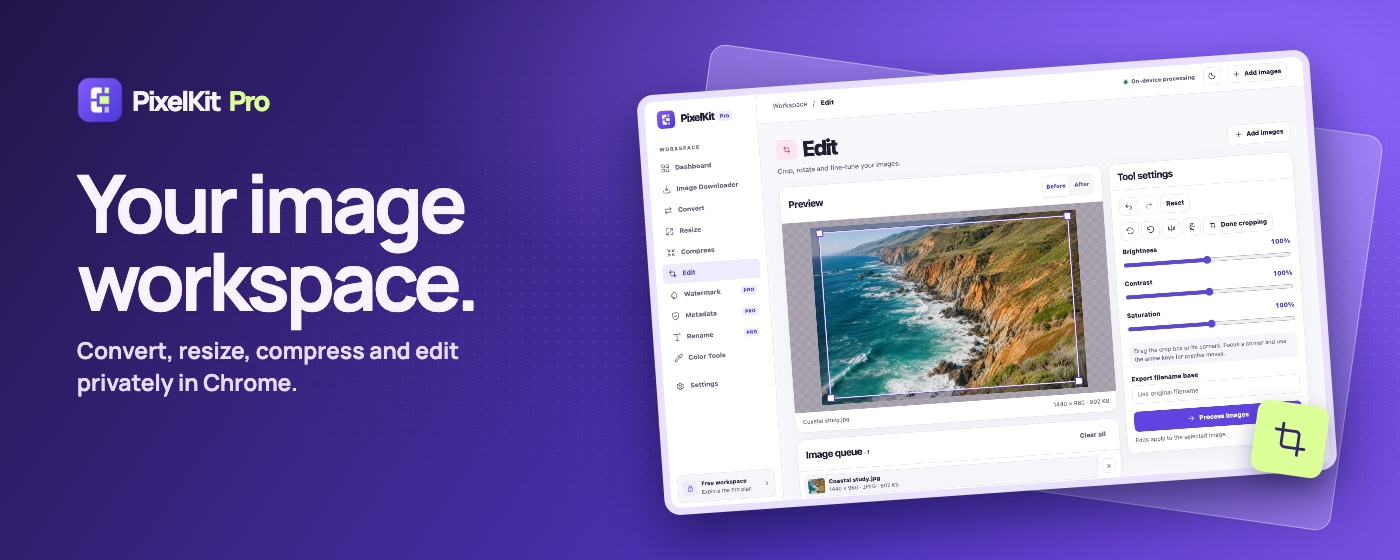
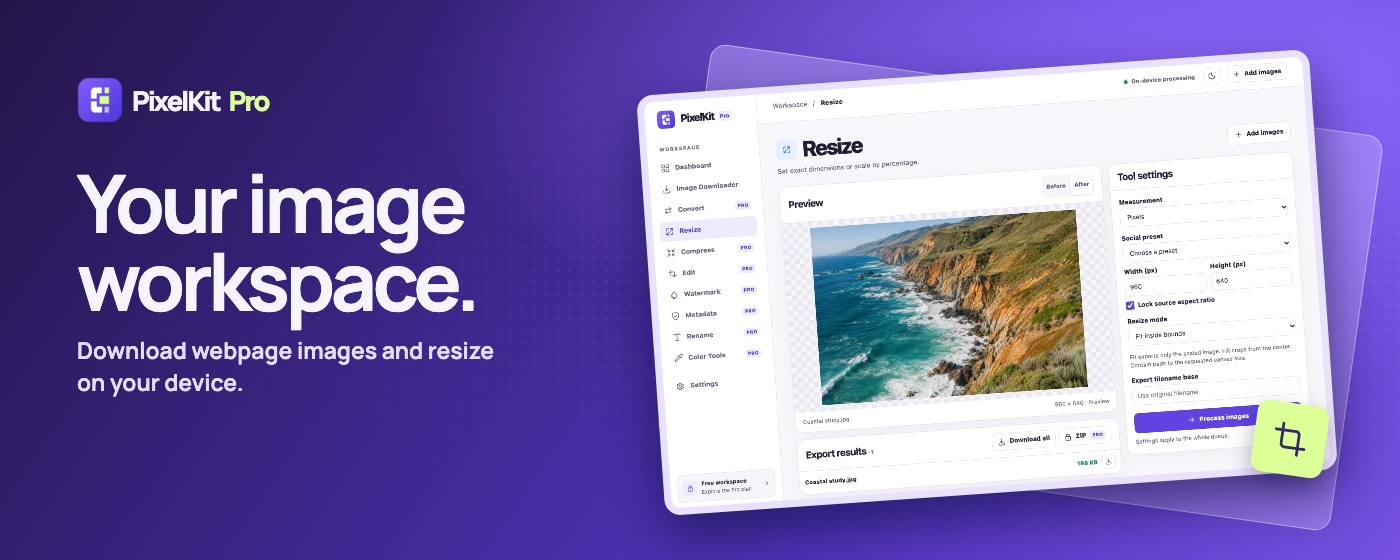
Update PixelKit Pro Free and Pro plans for 1.1.0

diff --git a/index.html b/index.html
@@ -4,7 +4,7 @@
   <meta charset="utf-8">
   <meta name="viewport" content="width=device-width,initial-scale=1">
   <title>PixelKit Pro | Private image tools for Chrome</title>
-  <meta name="description" content="Convert, resize, compress and edit images in Chrome on your device. Explore PixelKit Pro by PixelKit Labs, with Free tools and a planned $14.99 lifetime upgrade.">
+  <meta name="description" content="Download webpage images and resize on your device for free. Unlock more image tools with the planned $14.99 lifetime upgrade from PixelKit Labs.">
   <meta name="theme-color" content="#171229">
   <link rel="canonical" href="https://aavedisian00.github.io/pixelkit-website/">
   <meta property="og:type" content="website">
@@ -12,7 +12,7 @@
   <meta property="og:description" content="An image workspace for Chrome that processes your files on your device.">
   <meta property="og:url" content="https://aavedisian00.github.io/pixelkit-website/">
   <meta property="og:image" content="https://aavedisian00.github.io/pixelkit-website/assets/social-preview.jpg">
-  <meta property="og:image:alt" content="PixelKit Pro editing a coastal photograph in its Chrome workspace">
+  <meta property="og:image:alt" content="PixelKit Pro resizing a coastal photograph in its Chrome workspace">
   <meta name="twitter:card" content="summary_large_image">
   <link rel="icon" type="image/png" sizes="32x32" href="assets/icon32.png">
   <link rel="preload" href="assets/manrope.woff2" as="font" type="font/woff2" crossorigin>
@@ -33,52 +33,52 @@
         <div class="hero-copy">
           <p class="eyebrow"><span></span> A Chrome extension by PixelKit Labs</p>
           <h1 id="hero-title">Your images.<br><em>Your device.</em></h1>
-          <p>Convert, resize, compress and edit images in one Chrome workspace. Local files stay on your device, with no account or cloud processing.</p>
+          <p>Download webpage images and resize for free in Chrome. Pro adds conversion, compression, editing and more. Local files stay on your device.</p>
           <div class="actions"><a class="button primary" href="#workspace">Explore the workspace</a><a class="button dark-outline" href="#pricing">View pricing</a></div>
         </div>
         <figure class="hero-figure">
-          <div class="hero-frame"><img src="assets/compression.jpg" width="1280" height="800" alt="PixelKit Pro showing a coastal photo compressed to WebP with before and after controls, a quality slider and exported file size." fetchpriority="high"></div>
-          <figcaption>PixelKit Pro workspace · Compression</figcaption>
+          <div class="hero-frame"><img src="assets/resize.jpg" width="1280" height="800" alt="PixelKit Pro showing a coastal photo resized to 960 by 640 pixels, with preview and download controls." fetchpriority="high"></div>
+          <figcaption>PixelKit Pro workspace · Free Resize</figcaption>
         </figure>
       </div>
     </section>
     <section class="format-bar" aria-label="Supported formats">
-      <div class="wrap"><span>Input &amp; output formats</span><ul><li>JPEG</li><li>PNG</li><li>WebP</li><li>AVIF</li><li>BMP</li><li>GIF</li><li>SVG</li><li>ICO</li></ul></div>
+      <div class="wrap"><span>Supported image formats</span><ul><li>JPEG</li><li>PNG</li><li>WebP</li><li>AVIF</li><li>BMP</li><li>GIF</li><li>SVG</li><li>ICO</li></ul></div>
     </section>
     <section class="wrap section workspace" id="workspace" aria-labelledby="workspace-title">
-      <div class="section-intro"><h2 id="workspace-title">See the tools in action</h2><p>These screenshots show PixelKit Pro running in Chrome. Switch views to see how cropping, compression and color sampling work.</p></div>
+      <div class="section-intro"><h2 id="workspace-title">See the tools in action</h2><p>See Image Downloader and Resize in the Free workspace, or preview the planned Pro editor.</p></div>
       <div class="demo">
         <div class="demo-buttons" aria-label="Workspace screenshots">
-          <button type="button" id="edit-tab" data-demo="edit-demo">Crop and edit</button>
-          <button type="button" id="compress-tab" data-demo="compress-demo">Compress</button>
-          <button type="button" id="color-tab" data-demo="color-demo">Pick colors</button>
+          <button type="button" id="resize-tab" data-demo="resize-demo">Resize</button>
+          <button type="button" id="download-tab" data-demo="download-demo">Download</button>
+          <button type="button" id="edit-tab" data-demo="edit-demo">Edit (Pro)</button>
         </div>
+        <figure class="demo-panel" id="resize-demo">
+          <img src="assets/resize.jpg" width="1280" height="800" loading="lazy" decoding="async" alt="Free Resize workspace showing pixel dimensions, aspect ratio controls and the resized export.">
+          <figcaption><strong>Resize for free</strong><span>Set dimensions or scale by percentage. Choose a social preset, then resize and save your images in one batch.</span></figcaption>
+        </figure>
+        <figure class="demo-panel" id="download-demo">
+          <img src="assets/downloader.jpg" width="1280" height="800" loading="lazy" decoding="async" alt="Free Image Downloader showing a webpage gallery, image filters and multiple selected images.">
+          <figcaption><strong>Download for free</strong><span>Scan a webpage, filter the gallery and save selected images as individual files. Save one or many in the same operation.</span></figcaption>
+        </figure>
         <figure class="demo-panel" id="edit-demo">
-          <img src="assets/editor.jpg" width="1280" height="800" loading="lazy" decoding="async" alt="Editor showing four draggable crop handles over the original photo and sliders for brightness, contrast and saturation.">
-          <figcaption><strong>Crop and edit</strong><span>Drag crop handles, rotate or flip, and adjust brightness, contrast and saturation. Undo changes or compare the result against the original.</span></figcaption>
-        </figure>
-        <figure class="demo-panel" id="compress-demo">
-          <img src="assets/compression.jpg" width="1280" height="800" loading="lazy" decoding="async" alt="Compression workspace comparing source and WebP output file sizes for the coastal sample image.">
-          <figcaption><strong>Compress</strong><span>Choose JPEG, WebP or AVIF, set a quality level, and compare the actual encoded output and file size.</span></figcaption>
-        </figure>
-        <figure class="demo-panel" id="color-demo">
-          <img src="assets/color-tools.jpg" width="1280" height="800" loading="lazy" decoding="async" alt="Color Tools in dark mode showing a sampled teal swatch and copy buttons for HEX, RGB and HSL.">
-          <figcaption><strong>Pick colors</strong><span>Sample a pixel and copy its HEX, RGB or HSL value. Pro adds dominant colors and CSS palette export.</span></figcaption>
+          <img src="assets/editor.jpg" width="1280" height="800" loading="lazy" decoding="async" alt="Pro editor preview showing draggable crop handles and adjustment sliders.">
+          <figcaption><strong>Edit with Pro</strong><span>Preview the planned Pro editor. Drag crop handles, rotate or flip, and adjust brightness, contrast and saturation.</span></figcaption>
         </figure>
       </div>
     </section>
     <section class="feature-band" aria-label="Image workflow">
       <div class="wrap feature-layout">
-        <article><div class="feature-symbol" aria-hidden="true"><svg viewBox="0 0 24 24"><path d="M4 8h15m-4-4 4 4-4 4M20 16H5m4-4-4 4 4 4"/></svg></div><h3>Convert and resize</h3><p>Change formats, set exact dimensions, scale by percentage or start with a social preset. Fit, fill or pad an image to match your layout.</p></article>
+        <article><div class="feature-symbol" aria-hidden="true"><svg viewBox="0 0 24 24"><path d="M4 8h15m-4-4 4 4-4 4M20 16H5m4-4-4 4 4 4"/></svg></div><h3>Resize images</h3><p>Set exact dimensions, scale by percentage or start with a social preset. Fit, fill or pad an image to match your layout.</p></article>
         <article><div class="feature-symbol" aria-hidden="true"><svg viewBox="0 0 24 24"><path d="M12 3v12m-4-4 4 4 4-4M4 15v5h16v-5"/></svg></div><h3>Collect webpage images</h3><p>Request a scan from Chrome’s toolbar, browse a thumbnail gallery and filter by available image details. Website access restrictions apply.</p></article>
         <article><div class="feature-symbol" aria-hidden="true"><svg viewBox="0 0 24 24"><path d="M12 21s7-3 7-10V6l-7-3-7 3v5c0 7 7 10 7 10Z"/><path d="m9 12 2 2 4-4"/></svg></div><h3>Keep local files local</h3><p>Image processing runs on your device. The extension has no analytics or cloud storage. Webpage scanning may request thumbnails from their original hosts.</p><a href="privacy-policy.html">Read the privacy policy</a></article>
       </div>
     </section>
     <section class="wrap section pricing" id="pricing" aria-labelledby="pricing-title">
-      <div class="section-intro"><h2 id="pricing-title">Free tools. One-time Pro upgrade.</h2><p>Use Free for everyday edits. The planned Pro license is a one-time purchase with no subscription fees.</p></div>
+      <div class="section-intro"><h2 id="pricing-title">Free tools. One-time Pro upgrade.</h2><p>Free includes Image Downloader and Resize. The planned Pro license unlocks the other tools for one payment, with no subscription fees.</p></div>
       <div class="price-grid">
         <article class="price-card">
-          <h3>Free</h3><p class="price">$0 <span>USD</span></p><p>Everyday image tools for Chrome.</p>
+          <h3>Free</h3><p class="price">$0 <span>USD</span></p><p>Webpage image downloads and batch resizing.</p>
           <button class="button unavailable" type="button" disabled>Download Free · Coming Soon</button>
         </article>
         <article class="price-card pro-card">
@@ -91,15 +91,14 @@
           <caption>Compare Free and Pro features</caption>
           <thead><tr><th scope="col">Feature</th><th scope="col">Free</th><th scope="col">Pro</th></tr></thead>
           <tbody>
-            <tr><th scope="row">Convert, resize, compress and edit</th><td>Included</td><td>Included</td></tr>
-            <tr><th scope="row">HEX, RGB and HSL color picking</th><td>Included</td><td>Included</td></tr>
-            <tr><th scope="row">Local batch processing</th><td>5 images per operation</td><td>Larger batches</td></tr>
-            <tr><th scope="row">Webpage image downloads</th><td>One at a time</td><td>Bulk downloads</td></tr>
-            <tr><th scope="row">Compression target size</th><td>—</td><td>Included</td></tr>
+            <tr><th scope="row">Webpage image downloads</th><td>Single and bulk</td><td>Single and bulk</td></tr>
+            <tr><th scope="row">Resize and batch resize</th><td>Included</td><td>Included</td></tr>
+            <tr><th scope="row">Format conversion and compression</th><td>—</td><td>Included</td></tr>
+            <tr><th scope="row">Crop, rotate and adjust images</th><td>—</td><td>Included</td></tr>
             <tr><th scope="row">Text and logo watermarking</th><td>—</td><td>Included</td></tr>
             <tr><th scope="row">Metadata inspection and sanitization</th><td>—</td><td>Included</td></tr>
             <tr><th scope="row">Batch file renaming and ZIP export</th><td>—</td><td>Included</td></tr>
-            <tr><th scope="row">Dominant colors and CSS palettes</th><td>—</td><td>Included</td></tr>
+            <tr><th scope="row">Color picking and CSS palettes</th><td>—</td><td>Included</td></tr>
           </tbody>
         </table>
         <p>Device and file limits apply to both plans. Public downloads and Pro purchases are coming soon. <a href="refund-policy.html">Read the proposed refund policy</a>.</p>
@@ -110,8 +109,9 @@
         <div><h2 id="faq-title">Frequently asked questions</h2><p>For troubleshooting or product questions, <a href="support.html">contact PixelKit Labs</a>.</p></div>
         <div class="accordion">
           <details><summary>Do my images ever leave my device?</summary><p>PixelKit Pro processes local files in Chrome without uploading them. If you scan a webpage, Chrome may request thumbnails and selected images from their original hosts. <a href="privacy-policy.html">See the full privacy policy</a>.</p></details>
-          <details><summary>Does PixelKit Pro work offline?</summary><p>Local tools such as conversion, resizing and editing work offline after installation. Scanning and downloading webpage imagery can require access to the page and its image hosts.</p></details>
+          <details><summary>Does PixelKit Pro work offline?</summary><p>Resize and the local Pro tools work offline after installation. Scanning and downloading webpage imagery can require access to the page and its image hosts.</p></details>
           <details><summary>How are SVGs and animated images converted?</summary><p>SVG output embeds a raster image. Conversion of animated images exports one still frame. JPEG and BMP are exported with a white background where the source was transparent.</p></details>
+          <details><summary>What can I do with Free?</summary><p>Download webpage images individually or in bulk, and resize local images one at a time or in batches. ZIP export and the other image tools require Pro.</p></details>
           <details><summary>What does the lifetime Pro price mean?</summary><p>The planned price is $14.99 USD paid once for a lifetime Pro license, with no recurring subscription fee. Purchase and activation details will be provided when Pro is available.</p></details>
           <details><summary>When can I install the extension or purchase Pro?</summary><p>Both are marked Coming Soon. PixelKit Labs will add the Chrome Web Store and purchase links when they are available.</p></details>
         </div>

diff --git a/terms.html b/terms.html
@@ -21,7 +21,7 @@
     <p class="doc-lead">Effective November 24, 2026. These terms apply to the PixelKit Pro website and extension.</p>
     <section><h2>About PixelKit Pro</h2><p>PixelKit Pro is a Chrome extension published by PixelKit Labs. It provides tools for processing images on your device. These terms cover this website and any authorized copy of the PixelKit Pro extension you use.</p></section>
     <section><h2>License and acceptable use</h2><p>Subject to these terms, PixelKit Labs grants you permission to use an authorized copy of PixelKit Pro for personal or business image work. You retain your rights to the images you supply and the outputs you create. Third-party software included with the extension remains subject to its own license terms.</p><p>Process or download only content you are entitled to use. Respect copyright, privacy, applicable law and website restrictions. Do not use PixelKit Pro to bypass authentication, access controls or DRM.</p></section>
-    <section><h2>Availability and planned Pro license</h2><p>The Chrome Web Store listing and Pro purchase are coming soon. The planned Pro price is $14.99 USD for a one-time lifetime license with no recurring subscription fee. Final purchase terms, compatibility and activation instructions will be provided before payment is available.</p><p>If PixelKit Labs launches the planned Polar checkout, Polar would act as the authorized reseller and merchant of record for purchases made through that checkout. PixelKit Labs would provide the product and technical support. See the <a href="refund-policy.html">proposed refund policy</a>.</p></section>
+    <section><h2>Availability and planned Pro license</h2><p>The Chrome Web Store listing and Pro purchase are coming soon. Free includes Image Downloader and Resize. Conversion, compression, editing, watermarking, metadata tools, renaming, color tools and ZIP export require Pro. The planned Pro price is $14.99 USD for a one-time lifetime license with no recurring subscription fee. Final purchase terms, compatibility and activation instructions will be provided before payment is available.</p><p>If PixelKit Labs launches the planned Polar checkout, Polar would act as the authorized reseller and merchant of record for purchases made through that checkout. PixelKit Labs would provide the product and technical support. See the <a href="refund-policy.html">proposed refund policy</a>.</p></section>
     <section><h2>Compatibility and your files</h2><p>PixelKit Pro depends on browser support, available device memory and, for webpage downloads, access provided by the website. Keep a copy of important source files and review exports before using them. PixelKit Labs may update the extension as browsers and supported formats change.</p><p>These terms preserve the rights and remedies that apply under consumer law.</p></section>
     <section><h2>Privacy and contact</h2><p>The <a href="privacy-policy.html">privacy policy</a> explains local processing and website data handling. For questions about these terms, <a href="support.html#contact">contact PixelKit Labs</a>.</p></section>
   </main>

diff --git a/privacy-policy.html b/privacy-policy.html
@@ -18,7 +18,7 @@
   </div></header>
   <main id="main" class="doc">
     <h1>Privacy policy</h1>
-    <p class="doc-lead">Effective November 24, 2026. This policy covers PixelKit Pro 1.0.0 and the PixelKit Labs product website.</p>
+    <p class="doc-lead">Effective November 24, 2026. This policy covers PixelKit Pro 1.1.0 and the PixelKit Labs product website.</p>
     <section><h2>Local image processing</h2><p>When you choose an image from your device, PixelKit Pro reads its filename, image contents and properties to perform the operation you request. Metadata inspection can display embedded information such as camera and GPS details. These data are processed on your device. PixelKit Pro does not upload your image contents, send them to its publisher, or use cloud processing. The extension includes no analytics, advertising, tracking, user registration or payment services.</p></section>
     <section><h2>Webpage scanning and downloads</h2><p>The extension scans a tab only after you choose <strong>Scan this webpage</strong> from the toolbar popup. It reads that tab’s title and origin, image URLs, and available alt text, dimensions and sizes to build the gallery. It does not collect general browsing history. Gallery thumbnails may request images from their original hosts using Chrome’s normal image-loading behavior. Downloads request the selected image URLs from their original hosts. Requests omit cross-site credentials and PixelKit sets no referrer. When the original tab is still available, a same-origin fallback may use that webpage’s normal session credentials to fetch an image it can already read. The image hosts can receive normal connection information such as your IP address. PixelKit Pro sends no scan data to its publisher or an analytics service.</p></section>
     <section><h2>Storage and control</h2><p>Your queue, gallery and output previews live in the workspace’s memory. Chrome session storage briefly holds scan results for the handoff from the popup and the workspace deletes them when read. If the handoff is interrupted, expired records may remain in Chrome session storage until a subsequent scan cleans them up, the extension reloads, or the browser session ends. Color theme preferences are saved in the Chrome profile until you reset extension data or uninstall the extension.</p><p>Exports are saved locally through Chrome. Chrome manages download files and download history. PixelKit Pro checks the status of the downloads it starts to release temporary file handles. It does not inspect general Chrome download history. You can close the workspace to clear its working data and use Chrome or your operating system to manage export files and download history.</p></section>

diff --git a/support.html b/support.html
@@ -25,7 +25,7 @@
     </section>
     <section><h2>Report a public issue</h2><p>Use <a href="https://github.com/aavedisian00/pixelkit-website/issues">GitHub Issues</a> for public bug reports. Include the extension version, Chrome version, operating system, steps, and any error message. Use a non-sensitive example image if one helps.</p><p>Public issues are visible to everyone. Send personal information or sensitive details by email instead.</p></section>
     <section><h2>Troubleshooting</h2><p>If a webpage scan finds few images, scroll to load lazy images and scan again. Chrome and the original host may limit which images can be saved.</p><p>If an image fails to import, check its actual format and try a smaller file. For large batches, export completed items and split the remaining files into smaller groups. Use Chrome Downloads to find exports.</p></section>
-    <section><h2>Installation and purchases</h2><p>The public Chrome Web Store and Pro checkout links are coming soon. See <a href="./#pricing">pricing and availability</a> for the current status.</p></section>
+    <section><h2>Installation and purchases</h2><p>The public Chrome Web Store and Pro checkout links are coming soon. Free includes Image Downloader and Resize. Other image tools and ZIP export require Pro. See <a href="./#pricing">pricing and availability</a> for the current status.</p></section>
   </main>
   <footer class="footer"><div class="wrap footer-layout">
     <a class="wordmark" href="./" aria-label="PixelKit Pro home"><img src="assets/brand.svg" width="33" height="33" alt=""><span>PixelKit <strong>Pro</strong><small>Published by PixelKit Labs</small></span></a>

diff --git a/README.md b/README.md
@@ -6,4 +6,4 @@ GitHub Pages publishes this static site from `main` at the repository root. It n
 
 To update the public support address, edit the visible email and its `mailto:` value in `support.html`. The policy pages link to that contact section.
 
-The screenshots depict the PixelKit Pro 1.0.0 Chrome workspace. Manrope is included under the SIL Open Font License in `assets/Manrope-OFL.txt`.
+The screenshots depict the PixelKit Pro 1.1.0 Chrome workspace. The editor screenshot previews the planned Pro tier. Manrope is included under the SIL Open Font License in `assets/Manrope-OFL.txt`.
